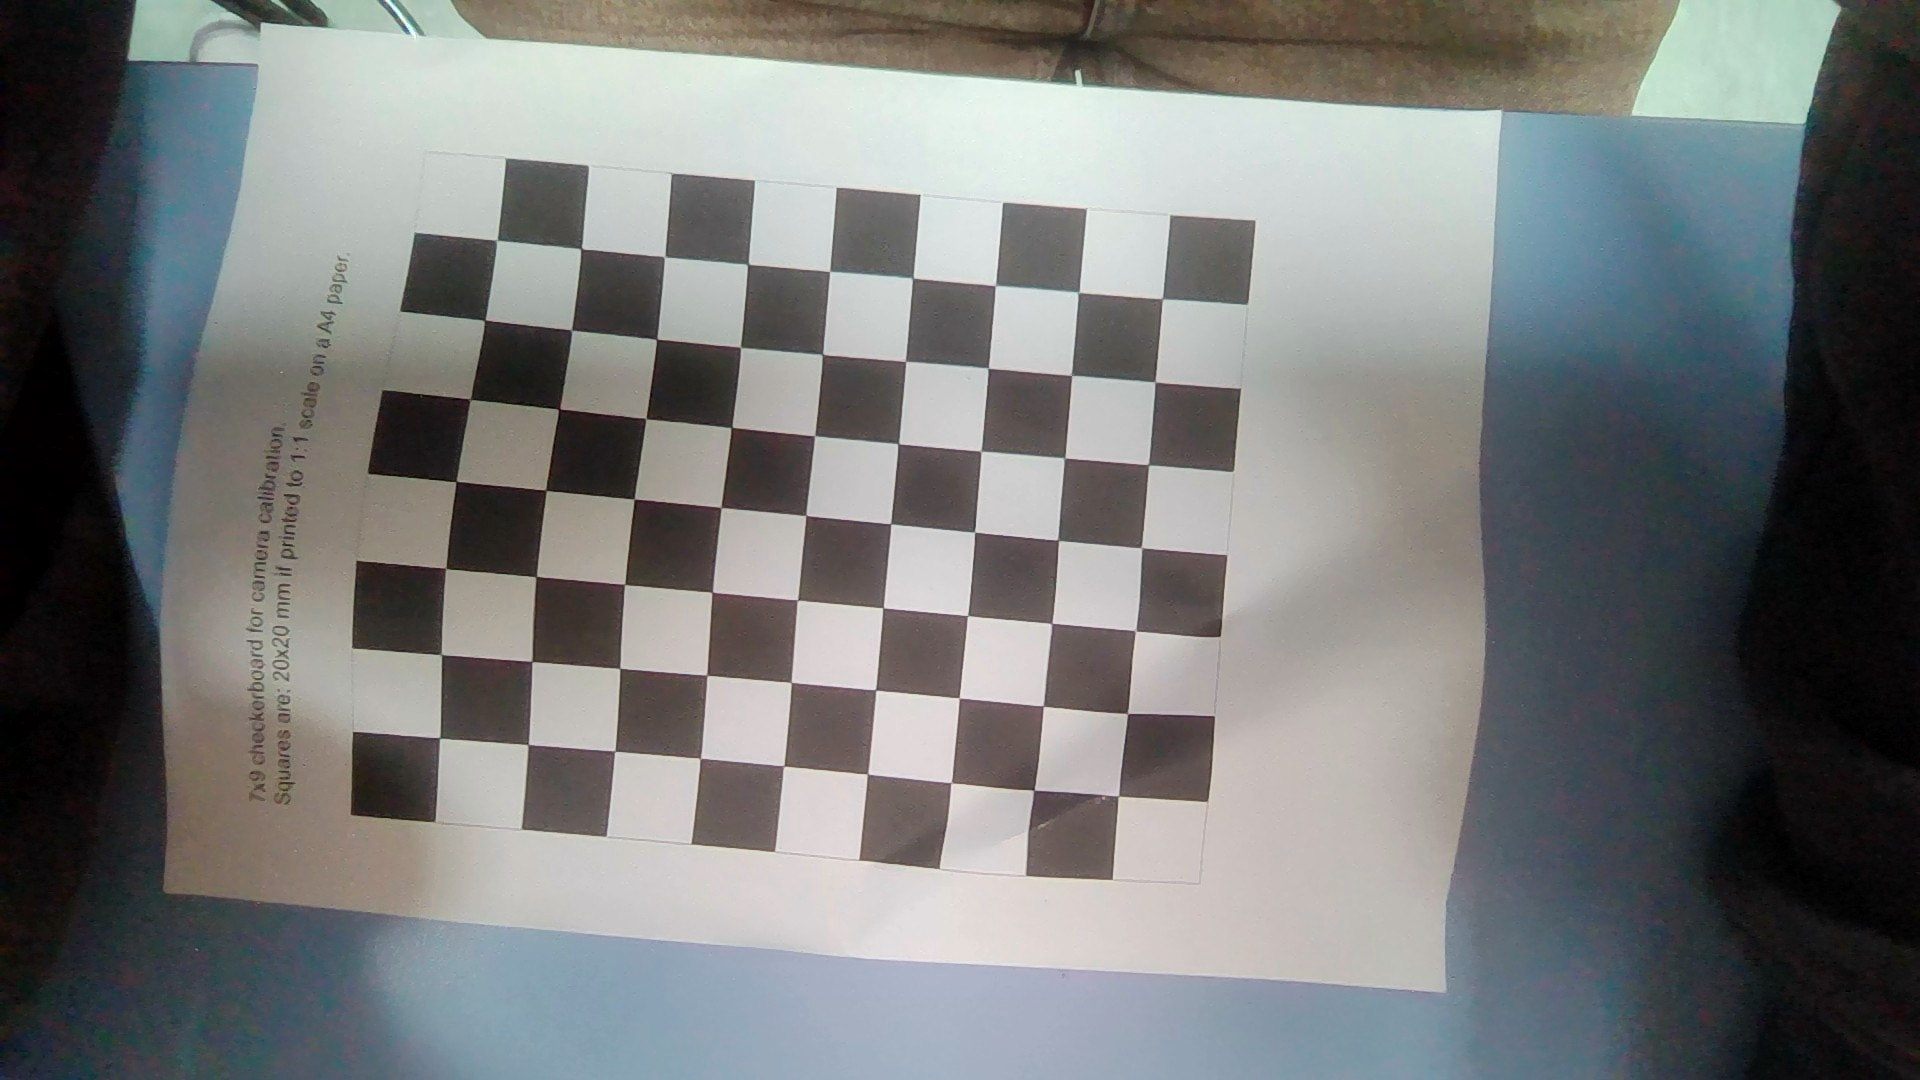
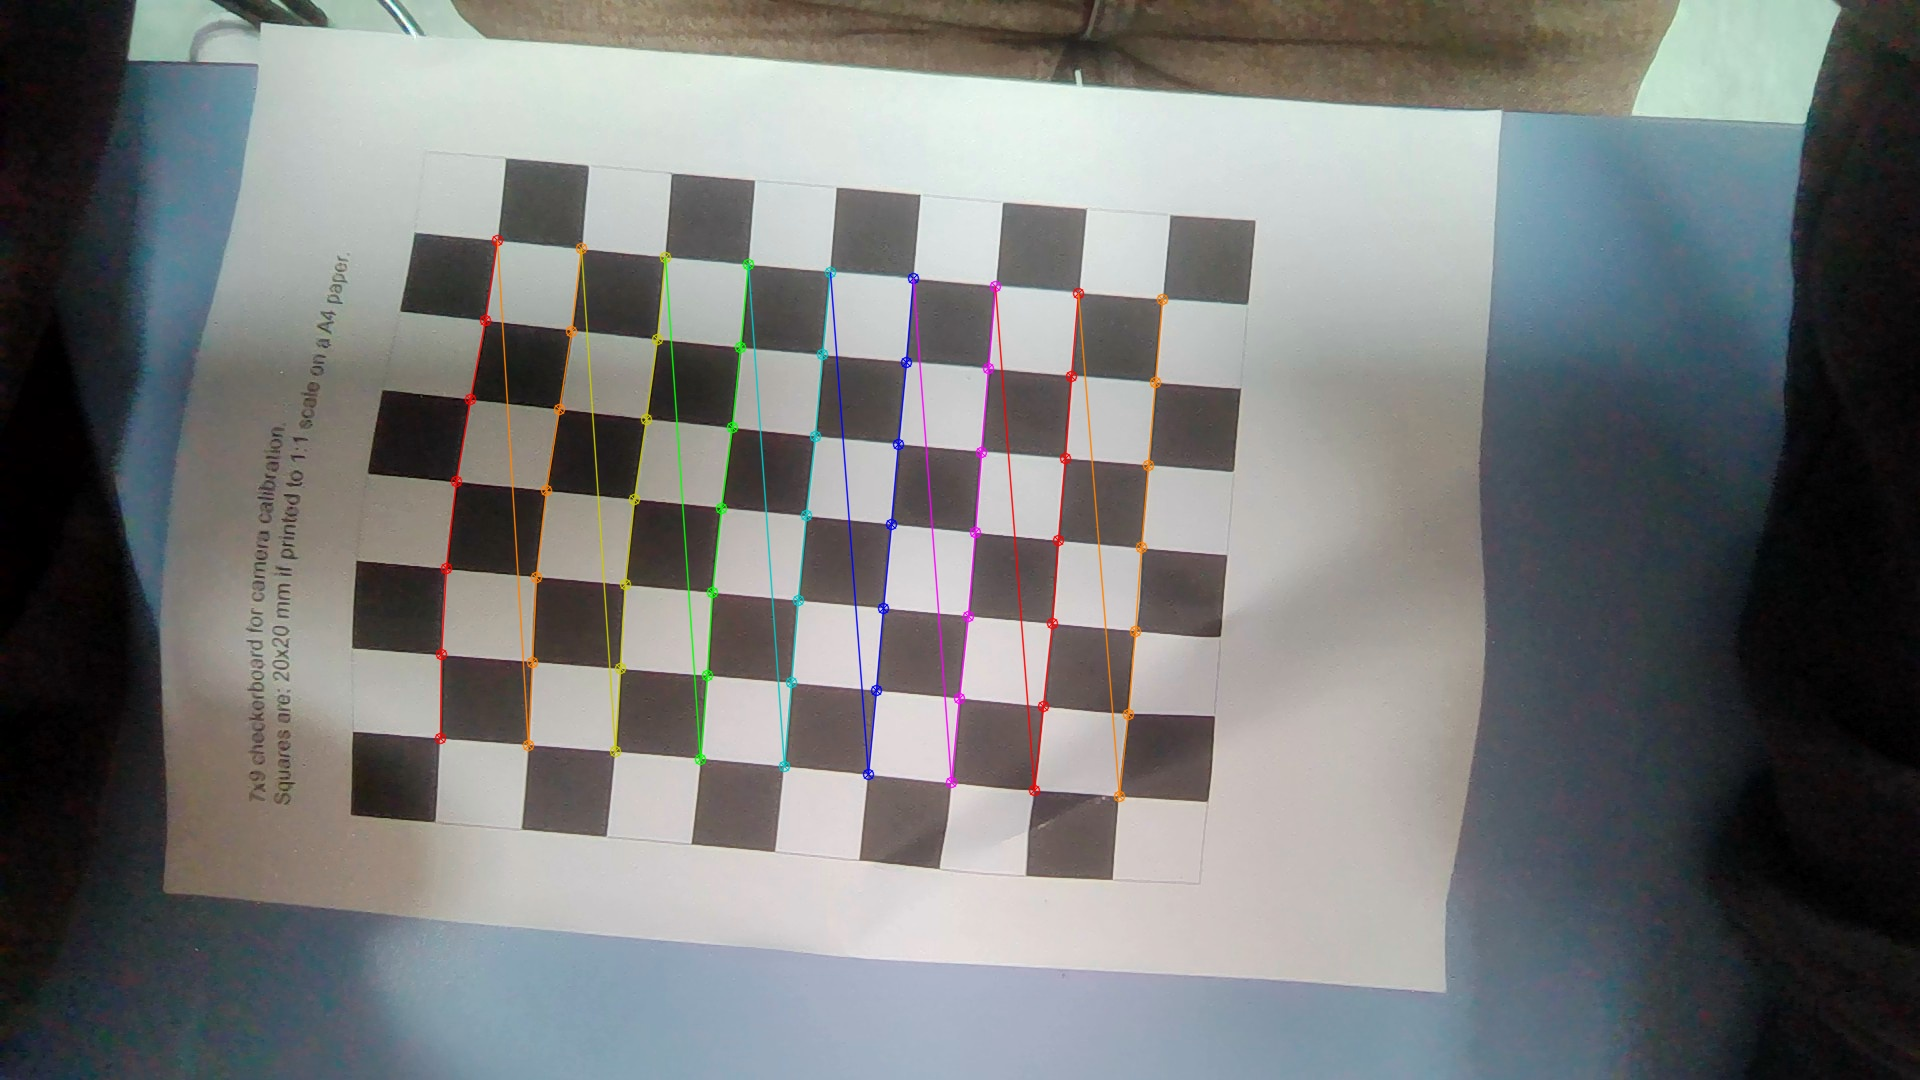
hj

diff --git a/src/camera_calibration.py b/src/camera_calibration.py
@@ -47,20 +47,20 @@ print(imgs_path)
 imgs = load_images(imgs_path)
 imgs_copy = [im.copy() for im in imgs]
 # Find corners with cv2.findChessboardCorners()
-corners = [cv2.findChessboardCorners(img, (6, 8)) for img in imgs]
+corners = [cv2.findChessboardCorners(img, (7, 9)) for img in imgs]
 corners_copy = copy.deepcopy(corners)
 criteria = (cv2.TERM_CRITERIA_EPS + cv2.TERM_CRITERIA_MAX_ITER, 30, 0.01)
 
 # To refine corner detections with cv2.cornerSubPix() you need to input grayscale images. Build a list containing grayscale images.
 imgs_gray = [cv2.cvtColor(img, cv2.COLOR_BGR2GRAY) for img in imgs]
 
-corners_refined = [cv2.cornerSubPix(i, cor[1], (8, 6), (-1, -1), criteria)
+corners_refined = [cv2.cornerSubPix(i, cor[1], (9, 7), (-1, -1), criteria)
                    if cor[0] else [] for i, cor in zip(imgs_gray, corners_copy)]
 
 # Use cv2.drawChessboardCorners() to draw the cornes
 for i in range(len(imgs_copy)):
     cv2.drawChessboardCorners(
-        imgs_copy[i], (6, 8), corners[i][1], corners[i][0])
+        imgs_copy[i], (7, 9), corners[i][1], corners[i][0])
 
 # save the images
 output_folder = "../imagenes_con_marca"
@@ -73,7 +73,7 @@ for i in range(len(imgs_copy)):
     show_image(imgs_copy[i], nuevo_nombre)
 
 # get chessboards points using our own function
-chessboard_points = [get_chessboard_points((8, 6), 30, 30) for img in imgs]
+chessboard_points = [get_chessboard_points((9, 7), 20, 20) for img in imgs]
 
 # calibrate the camera now
 # Filter data and get only those with adequate detections
@@ -81,7 +81,7 @@ valid_corners = [cor[1] for cor in corners if cor[0]]
 # Convert list to numpy array
 valid_corners = np.asarray(valid_corners, dtype=np.float32)
 chesboard_points_valid = [get_chessboard_points(
-    (8, 6), 30, 30) for _ in range(len(valid_corners))]
+    (9, 7), 20, 20) for _ in range(len(valid_corners))]
 image_size = imgs_copy[0].shape[:2]
 rms, intrinsics, dist_coeffs, rvecs, tvecs = cv2.calibrateCamera(
     chesboard_points_valid, valid_corners, image_size, None, None)
